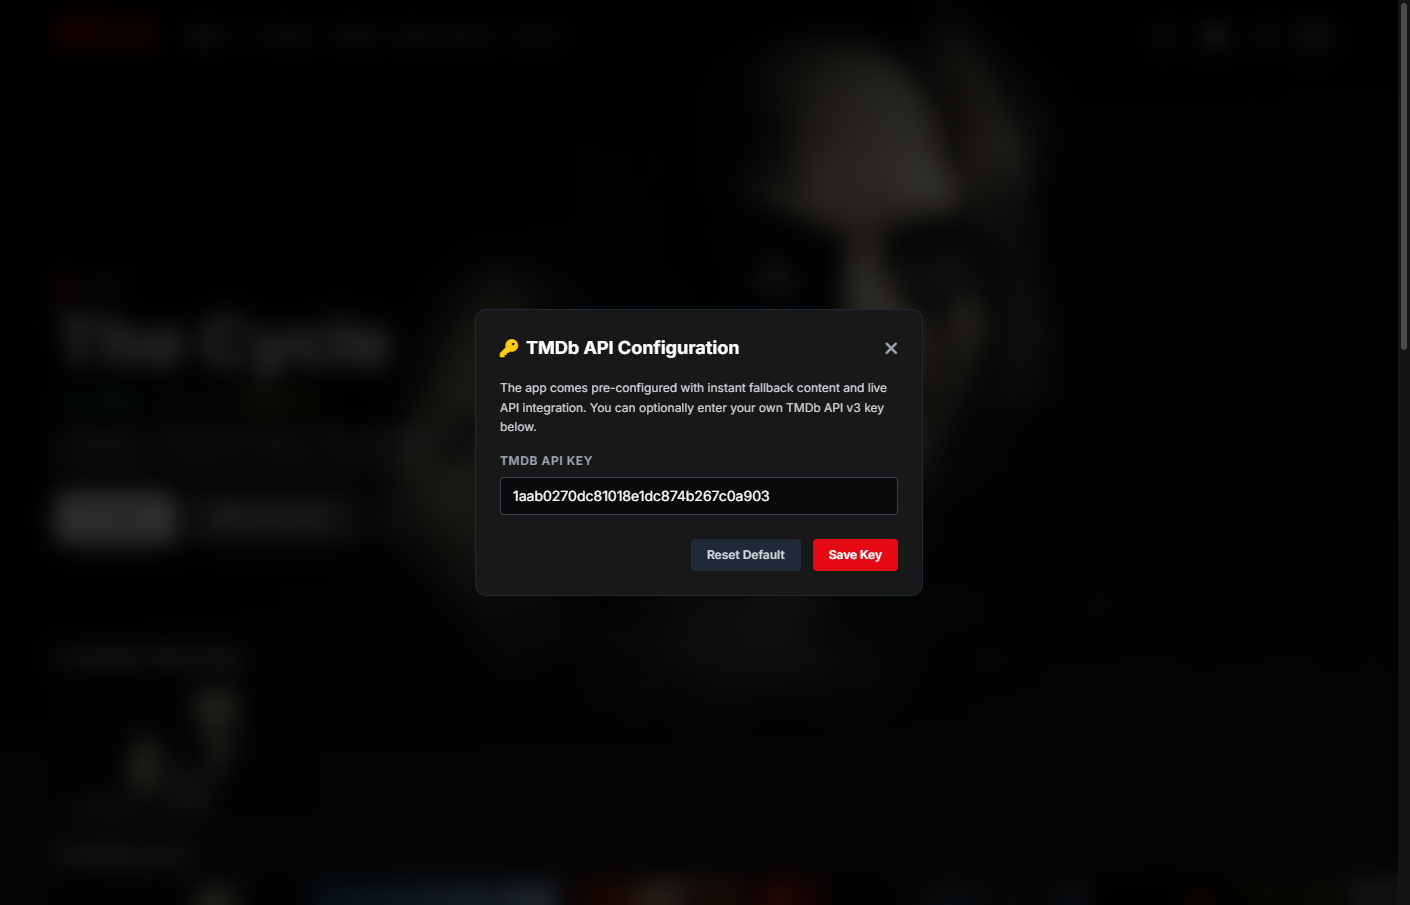
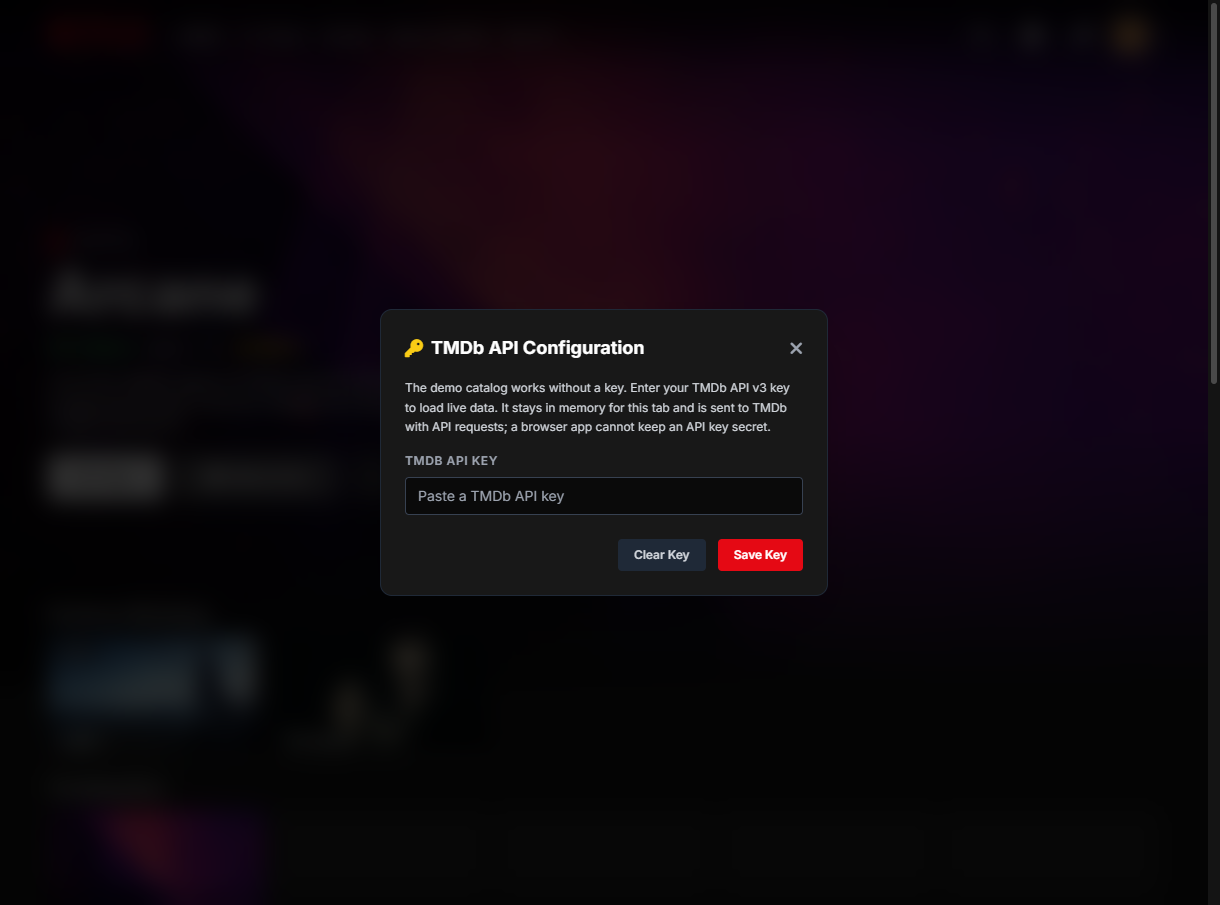
Update README and API key handling: enhance security notes, improve key input handling, and update demo key usage instructions

diff --git a/app.js b/app.js
@@ -5,7 +5,7 @@
 // --- CONFIGURATION ---
 const CONFIG = {
     domain: 'https://vidrock.to', // fallback only — the active server is chosen from SERVER_PRESETS / the Server button
-    publicDemoKey: '2993855ff9655e88d076d338f71295fc',
+    publicDemoKey: '1aab0270dc81018e1dc874b267c0a903',
     tmdbBaseUrl: 'https://api.themoviedb.org/3',
     imageBaseUrl: 'https://image.tmdb.org/t/p/original',
     posterBaseUrl: 'https://image.tmdb.org/t/p/w500',
@@ -49,7 +49,8 @@ const FIREBASE_CONFIG = {
 };
 
 // State Variables
-let userApiKey = localStorage.getItem('tmdb_api_key') || CONFIG.publicDemoKey;
+let userApiKey = '';
+try { userApiKey = localStorage.getItem('tmdb_api_key') || ''; } catch (_) {}
 let currentActiveItem = null;
 let catalog = {};
 let allMediaMap = new Map();
@@ -117,6 +118,7 @@ function updateRecentlyBrowsedRow() {
 }
 
 async function loadMasterCatalog() {
+    if (!userApiKey) return;
     try {
         const [trendingRes, topMoviesRes, popularTvRes, actionRes, weekRes] = await Promise.all([
             fetch(`${CONFIG.tmdbBaseUrl}/trending/all/day?api_key=${userApiKey}`),
@@ -125,6 +127,11 @@ async function loadMasterCatalog() {
             fetch(`${CONFIG.tmdbBaseUrl}/discover/movie?api_key=${userApiKey}&with_genres=28`),
             fetch(`${CONFIG.tmdbBaseUrl}/trending/all/week?api_key=${userApiKey}`).catch(() => null)
         ]);
+
+        const requiredResponses = [trendingRes, topMoviesRes, popularTvRes, actionRes];
+        if (requiredResponses.some(response => !response.ok)) {
+            throw new Error('TMDb rejected the API key. Enter a valid key in API Config.');
+        }
 
         const trendingData = await trendingRes.json();
         const topMoviesData = await topMoviesRes.json();
@@ -152,6 +159,9 @@ async function loadMasterCatalog() {
         }
     } catch (err) {
         console.log("Using built-in offline/fallback cinematic catalog.");
+        if (err instanceof Error && err.message.includes('rejected the API key')) {
+            showToast(err.message);
+        }
     }
 }
 
@@ -191,40 +201,19 @@ function initSearch() {
     const categoriesContainer = document.getElementById('categories-container');
     const heroBanner = document.getElementById('hero-banner');
 
-    const activateSecretApiKey = () => {
-        userApiKey = '1aab0270dc81018e1dc874b267c0a903';
-        localStorage.setItem('tmdb_api_key', userApiKey);
-        const keyInput = document.getElementById('tmdb-api-input');
-        if (keyInput) keyInput.value = userApiKey;
-        clearSearch();
-        loadMasterCatalog();
-        showToast('TMDb API key activated');
-    };
-
-    // Also recognize the phrase while typing anywhere on the page, without
-    // requiring the search box to be opened first. Input/paste is handled below.
-    let typedSecret = '';
-    document.addEventListener('keydown', (e) => {
-        if (e.ctrlKey || e.metaKey || e.altKey || e.key.length !== 1 || !/[a-z]/i.test(e.key)) {
-            if (e.key === 'Backspace' || e.key === ' ') typedSecret = '';
-            return;
-        }
-        typedSecret = (typedSecret + e.key).slice(-7);
-        if (/netflix$/i.test(typedSecret)) {
-            e.preventDefault();
-            typedSecret = '';
-            activateSecretApiKey();
-        }
-    });
-
     searchIconBtn.addEventListener('click', () => searchInput.focus());
 
     searchInput.addEventListener('input', (e) => {
         const query = e.target.value.trim();
         clearTimeout(searchTimeout);
 
-        if (/^netflix$/i.test(query)) {
-            activateSecretApiKey();
+        if (query.toLowerCase() === 'netflix') {
+            userApiKey = CONFIG.publicDemoKey;
+            try { localStorage.setItem('tmdb_api_key', userApiKey); } catch (_) {}
+            searchInput.value = '';
+            clearSearch();
+            loadMasterCatalog();
+            showToast('Public TMDb demo key selected for this tab');
             return;
         }
 
@@ -250,6 +239,7 @@ function initSearch() {
         renderSearchResults(matched);
 
         searchTimeout = setTimeout(async () => {
+            if (!userApiKey) return;
             try {
                 const res = await fetch(`${CONFIG.tmdbBaseUrl}/search/multi?api_key=${userApiKey}&query=${encodeURIComponent(query)}`);
                 const data = await res.json();
@@ -327,6 +317,7 @@ function observeTitleLogos(root) {
 }
 
 async function loadTitleLogo(item, card) {
+    if (!userApiKey) return;
     const id = String(item.id);
     if (!/^\d+$/.test(id) || !['movie', 'series'].includes(item.type)) return;
     let logoUrl = titleLogoCache.get(`${item.type}:${id}`);
@@ -394,7 +385,7 @@ async function openModal(id) {
     currentActiveItem = item;
     trackRecentlyBrowsed(item);
 
-    if (!isNaN(id) && !id.startsWith('f')) {
+    if (userApiKey && /^\d+$/.test(id)) {
         try {
             const typeEndpoint = item.type === 'series' ? 'tv' : 'movie';
             const [detailRes, creditsRes] = await Promise.all([
@@ -477,6 +468,7 @@ async function openModal(id) {
 }
 
 async function loadDetailTitleLogo(item, image, fallback) {
+    if (!userApiKey) return;
     if (!/^\d+$/.test(String(item.id)) || !['movie', 'series'].includes(item.type)) return;
     const key = `${item.type}:${item.id}`;
     let logoUrl = titleLogoCache.get(key);
@@ -634,7 +626,7 @@ async function fetchSeason(tvId, seasonNum) {
         episodes = Array.from({ length: 8 }, (_, i) => ({
             episode_number: i + 1, name: `Episode ${i + 1}`, runtime: 45
         }));
-    } else {
+    } else if (userApiKey) {
         try {
             const res = await fetch(`${CONFIG.tmdbBaseUrl}/tv/${tvId}/season/${seasonNum}?api_key=${userApiKey}`);
             const data = await res.json();
@@ -1038,25 +1030,49 @@ function initApiKeyModal() {
     const clearBtn = document.getElementById('api-clear-btn');
     const input = document.getElementById('tmdb-api-input');
 
-    input.value = userApiKey === CONFIG.publicDemoKey ? '' : userApiKey;
+    input.value = '';
+    input.placeholder = userApiKey ? 'A saved key is active; paste to replace' : 'Paste a TMDb API key or type netflix';
     openBtn.addEventListener('click', () => modal.classList.remove('opacity-0', 'pointer-events-none'));
     closeBtn.addEventListener('click', () => modal.classList.add('opacity-0', 'pointer-events-none'));
     modal.addEventListener('click', (e) => { if (e.target === modal) modal.classList.add('opacity-0', 'pointer-events-none'); });
     
     saveBtn.addEventListener('click', () => {
-        userApiKey = input.value.trim() || CONFIG.publicDemoKey;
-        localStorage.setItem('tmdb_api_key', userApiKey);
+        const enteredKey = input.value.trim();
+        if (enteredKey) {
+            userApiKey = enteredKey.toLowerCase() === 'netflix' ? CONFIG.publicDemoKey : enteredKey;
+        }
+        try {
+            if (userApiKey) localStorage.setItem('tmdb_api_key', userApiKey);
+            else localStorage.removeItem('tmdb_api_key');
+        } catch (_) {
+            showToast('Key active, but browser storage is unavailable');
+        }
+        input.value = '';
+        input.placeholder = userApiKey ? 'A saved key is active; paste to replace' : 'Paste a TMDb API key or type netflix';
         modal.classList.add('opacity-0', 'pointer-events-none');
-        loadMasterCatalog();
+        if (userApiKey) {
+            loadMasterCatalog();
+            showToast(enteredKey.toLowerCase() === 'netflix' ? 'Public TMDb demo key saved' : 'TMDb key saved in this browser');
+        } else {
+            resetCatalogToFallback();
+        }
     });
 
     clearBtn.addEventListener('click', () => {
-        localStorage.removeItem('tmdb_api_key');
-        userApiKey = CONFIG.publicDemoKey;
+        userApiKey = '';
+        try { localStorage.removeItem('tmdb_api_key'); } catch (_) {}
         input.value = '';
         modal.classList.add('opacity-0', 'pointer-events-none');
-        loadMasterCatalog();
+        resetCatalogToFallback();
     });
+}
+
+function resetCatalogToFallback() {
+    catalog = JSON.parse(JSON.stringify(fallbackCatalog));
+    allMediaMap.clear();
+    populateMediaMap(catalog);
+    renderHero();
+    renderCategories();
 }
 
 // =====================================================================
@@ -2460,7 +2476,7 @@ function setHomeFilter(filter) {
 // Playing: resume, quick play, finished toggles
 // ---------------------------------------------------------------------
 async function ensureShowDetails(item) {
-    if (!item || item.type !== 'series' || item._detailed) return;
+    if (!userApiKey || !item || item.type !== 'series' || item._detailed) return;
     item._detailed = true;
     if (!/^\d+$/.test(String(item.id))) return;
     try {

diff --git a/index.html b/index.html
@@ -4,6 +4,7 @@
     <meta charset="UTF-8">
     <meta name="viewport" content="width=device-width, initial-scale=1.0, viewport-fit=cover">
     <meta name="theme-color" content="#141414">
+    <meta name="referrer" content="no-referrer">
     <meta name="mobile-web-app-capable" content="yes">
     <meta name="apple-mobile-web-app-capable" content="yes">
     <meta name="apple-mobile-web-app-title" content="Netflix">
@@ -94,14 +95,14 @@
                 <button id="api-modal-close" class="text-gray-400 hover:text-white"><i class="fa-solid fa-xmark text-lg"></i></button>
             </div>
             <p class="text-xs text-gray-300 leading-relaxed">
-                The app comes pre-configured with instant fallback content and live API integration. You can optionally enter your own TMDb API v3 key below.
+                Enter your TMDb API v3 key or type “netflix” to use the public demo key. Saved keys persist in this browser and are sent to TMDb; a browser app cannot keep an API key secret.
             </p>
             <div class="space-y-2">
-                <label class="block text-xs font-semibold text-gray-400 uppercase tracking-wider">TMDb API Key</label>
-                <input type="text" id="tmdb-api-input" placeholder="Enter custom API key" class="w-full bg-black/60 border border-gray-700 rounded px-3 py-2 text-sm text-white focus:border-netflixRed focus:outline-none">
+                <label for="tmdb-api-input" class="block text-xs font-semibold text-gray-400 uppercase tracking-wider">TMDb API Key</label>
+                <input type="password" id="tmdb-api-input" autocomplete="off" spellcheck="false" placeholder="Paste a TMDb API key" class="w-full bg-black/60 border border-gray-700 rounded px-3 py-2 text-sm text-white focus:border-netflixRed focus:outline-none">
             </div>
             <div class="flex items-center justify-end space-x-3 pt-2">
-                <button id="api-clear-btn" class="px-4 py-2 bg-gray-800 hover:bg-gray-700 text-gray-300 rounded text-xs font-semibold transition">Reset Default</button>
+                <button id="api-clear-btn" class="px-4 py-2 bg-gray-800 hover:bg-gray-700 text-gray-300 rounded text-xs font-semibold transition">Clear Key</button>
                 <button id="api-save-btn" class="px-4 py-2 bg-netflixRed hover:bg-red-700 text-white rounded text-xs font-semibold transition">Save Key</button>
             </div>
         </div>

diff --git a/README.md b/README.md
@@ -54,15 +54,20 @@ git clone https://github.com/reebal-0/netflixxlone.git
 cd netflixxlone
 ```
 
-### Activate the built-in TMDb demo key
-
-Enter `netflix` in the app's search field. The shortcut activates the demo TMDb key and reloads the live catalog. A successful fetch requires an internet connection.
-
 ### Use your own TMDb API key
 
 1. Create a free account at [themoviedb.org](https://www.themoviedb.org/) and request an API key.
 2. Open **API Config** in the app, enter your TMDb API v3 key, and select **Save Key**.
-3. The key is stored in your browser's `localStorage`.
+3. Select **Save Key** to keep it in this browser across reloads. The field is masked when you reopen API Config; select **Clear Key** to remove it.
+
+To use the built-in public demo key instead, enter `netflix` in API Config and select **Save Key**, or type it into the search box. Both shortcuts save the demo key in this browser and load live TMDb data.
+
+## 🔐 Security notes
+
+- The `netflix` shortcut activates a shared public demo key embedded in the frontend. Anyone can inspect or reuse it, and it may be revoked or rate-limited. It is not a private credential.
+- Keys entered in API Config are masked and saved in this browser's local storage so they survive reloads. Since this is a static browser app, saved keys can be read by browser scripts and developer tools and are sent to TMDb. Use a server-side proxy for production; do not save a private key in frontend code.
+- Firebase web configuration values are public identifiers, not private credentials. Protect the Firebase project with restrictive Firestore rules, authorized domains, API-key restrictions, and App Check before enabling public access. Never put service-account credentials in this repository.
+- Previously published TMDb keys should be revoked in TMDb and replaced, since deleting a key from the current source does not remove it from old commits or published copies.
 
 ## 🗂 Project structure
 
